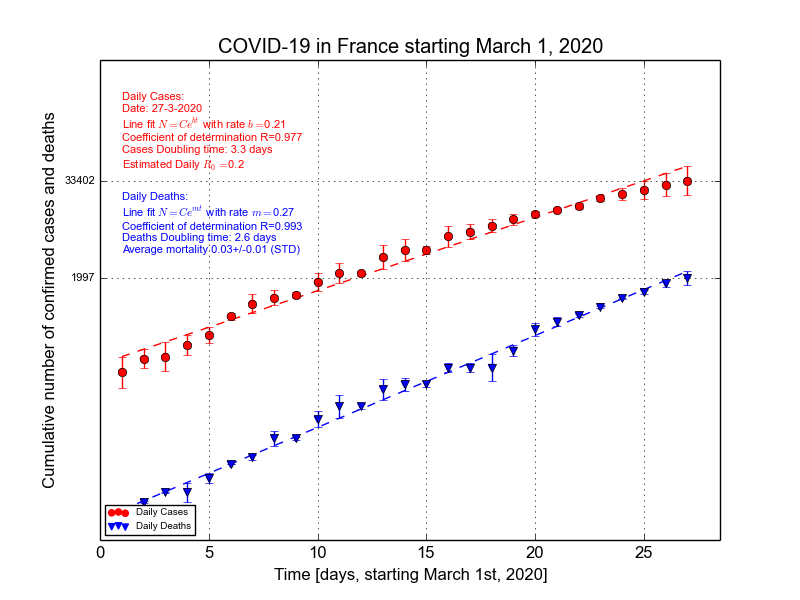
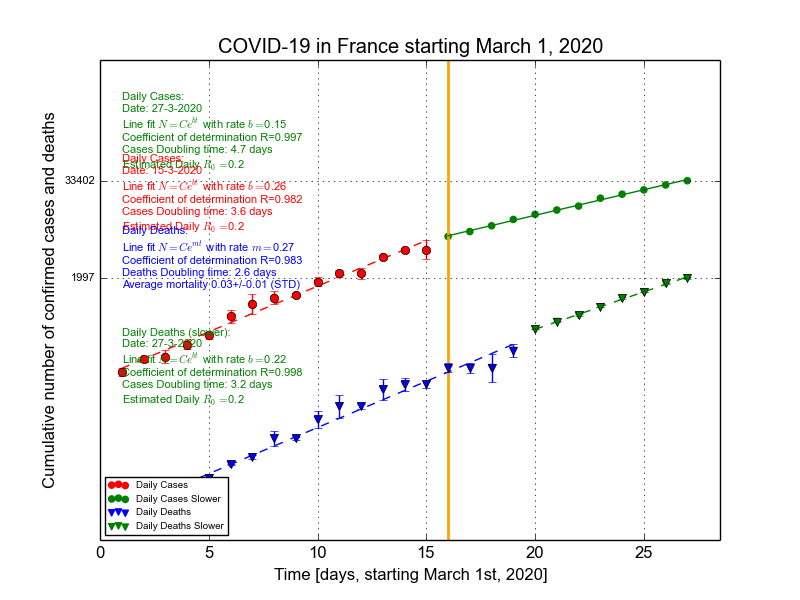
France slowdown

diff --git a/cov_lin_models_refactored.py b/cov_lin_models_refactored.py
@@ -37,6 +37,7 @@ JOHN_HOPKINS = "https://raw.githubusercontent.com/CSSEGISandData/COVID-19/master
 SLOWDOWN = {"Belgium": 13,
             "Denmark": 13, 
             "Finland": 14,
+            "France": 16,
             "Germany": 20,
             "Ireland": 16,
             "Italy": 21,
@@ -48,7 +49,8 @@ SLOWDOWN = {"Belgium": 13,
             "Sweden": 13,
             "UK": 21}
 # same for deaths
-SLOWDOWN_DEATHS = {"Germany": 20,
+SLOWDOWN_DEATHS = {"France": 20,
+                   "Germany": 20,
                    "Italy": 21,
                    "Spain": 15,
                    "UK": 21}
